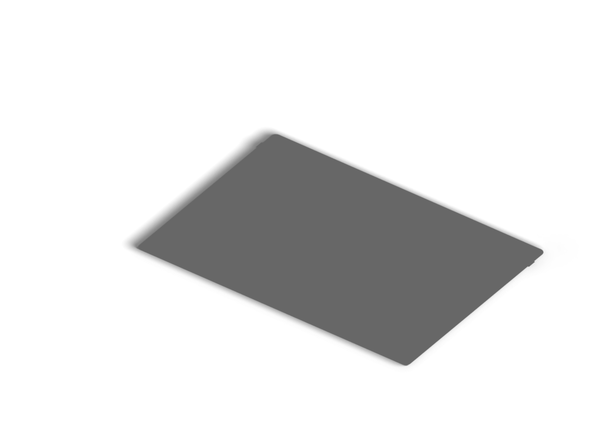
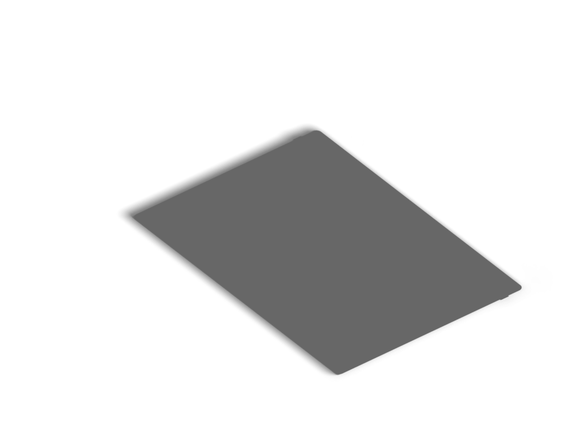
Compose the desk as a grid-based object system
Positions are now derived from rules on a shared axonometric grid: the
monitor sets the system's width and back baseline; the Mac mini, cube and
notebook form a front row justified to that width with equal gaps on one
axis; the plant stands on the back baseline one gap outside the screen.
The notebook is re-rendered square to the grid. ?grid shows the
construction lines.

Claude-Session: https://claude.ai/code/session_01CUiEZuVTLd7MTFBb59jba6

Changed region(s): [[0.1837, 0.2702, 0.8878, 0.8707]]

diff --git a/desk/js/layouts.js b/desk/js/layouts.js
@@ -1,120 +1,106 @@
-// Art-directed desk compositions.
+// The desk as a designed object system.
 //
-// Scene coordinates are real centimetres on the desk plane, in the same frame
-// as the Blender renders (style v1.3, the mirrored front-left camera): +x runs
-// to the right on screen and toward the viewer, +y away from the viewer.
-// scene.js projects them with the renders' orthographic camera, so every
-// arrangement is one physical desk seen through one lens.
+// Objects are not hand-placed. Their positions are derived from a few rules on
+// a shared axonometric grid, in real centimetres on the desk plane (the same
+// frame as the Blender renders, style v1.3: +x runs up-right on screen, +y
+// up-left, away from the viewer). Every object is square to the grid.
 //
-// The monitor sits at the origin in every variation (its foot spans roughly
-// x −10…10, y 7…23; the screen stands at y≈10, x −31…31, bottom edge 10.5 cm
-// up). Everything else is placed in relation to it.
+//   1. The monitor anchors the back row. Its screen width is the width of the
+//      whole system, and its screen plane is the back baseline.
+//   2. A front row (Mac mini · cube · notebook) is justified across exactly the
+//      monitor's width, with equal gaps between items, all centred on one
+//      shared axis parallel to the screen.
+//   3. That axis sits so the deepest item clears the monitor's foot by half a
+//      gap.
+//   4. The plant stands on the back baseline, one gap outside the screen's
+//      edge: the single, deliberate asymmetry, balancing the row's weight.
 //
-// Each variation has a desk tone and two crops: `landscape` and `portrait`.
-// `stage` is the screen region (fractions of the viewport) the `frame`
-// objects are fitted into; `align`/`alignX` bias where spare room goes;
-// objects outside `frame` may run off the window like a crop of the desk.
+// Footprints are the objects' real plan dimensions (cm), measured from the
+// Blender models; `optical` scale is applied to the footprint too, so the
+// spacing is honest to what you see.
 
-const MONITOR = { x: 0, y: 10 };
-
-export const VARIANTS = {
-  // A — Workstation. The Mac mini sits square beside the stand, the notebook
-  // and cube gather front-right as one small group, and the plant stands
-  // just behind the screen's right edge.
-  a: {
-    name: "Workstation",
-    tone: { base: "#e7e2d8", lit: "#ebe7de" },
-    objects: {
-      monitor: MONITOR,
-      macmini: { x: -18, y: 7 },
-      notebook: { x: 16, y: -12 },
-      rubiks: { x: 4, y: -17 },
-      plant: { x: 47, y: 21 },
-    },
-    landscape: { stage: { left: 0.18, right: 0.84, top: 0.14, bottom: 0.9, align: 0.5 }, maxScale: 11.5 },
-    portrait: {
-      // Frame the front group within the screen; the monitor rises behind it
-      // and may run off an edge, the plant may crop.
-      stage: { left: 0.05, right: 0.95, top: 0.44, bottom: 0.84, align: 0.5 },
-      frame: ["macmini", "rubiks", "notebook"],
-      maxScale: 11,
-      optical: { rubiks: 1.35 },
-    },
-  },
-
-  // B — Corner. The Mac mini tucks under the screen's right corner, the
-  // notebook and cube sit front-left, and the plant balances from the far
-  // left, set back.
-  b: {
-    name: "Corner",
-    tone: { base: "#e9e5dd", lit: "#eeebe4" },
-    objects: {
-      monitor: MONITOR,
-      macmini: { x: 19, y: 3 },
-      notebook: { x: -19, y: -13 },
-      rubiks: { x: -6, y: -19 },
-      plant: { x: -42, y: 9 },
-    },
-    landscape: { stage: { left: 0.16, right: 0.86, top: 0.14, bottom: 0.9, align: 0.5 }, maxScale: 11.5 },
-    portrait: {
-      // Frame the front group within the screen; the monitor rises behind it
-      // and may run off an edge, the plant may crop.
-      stage: { left: 0.05, right: 0.95, top: 0.44, bottom: 0.84, align: 0.5 },
-      frame: ["macmini", "rubiks", "notebook"],
-      maxScale: 11,
-      optical: { rubiks: 1.35 },
-    },
-  },
-
-  // C — Close still life. Everything pulled in tight: the notebook against
-  // the stand's front corner, the cube between it and the Mac mini, and the
-  // plant partly hidden behind the screen, so the desk reads as one
-  // overlapping silhouette.
-  c: {
-    name: "Close",
-    tone: { base: "#e3ded4", lit: "#e8e4db" },
-    objects: {
-      monitor: { x: 0, y: 12 },
-      macmini: { x: -16, y: 3 },
-      notebook: { x: 13, y: -7 },
-      rubiks: { x: -2, y: -12 },
-      plant: { x: 45, y: 25 },
-    },
-    landscape: { stage: { left: 0.22, right: 0.8, top: 0.14, bottom: 0.9, align: 0.5 }, maxScale: 12.5 },
-    portrait: {
-      // Frame the front group within the screen; the monitor rises behind it
-      // and may run off an edge, the plant may crop.
-      stage: { left: 0.05, right: 0.95, top: 0.44, bottom: 0.84, align: 0.5 },
-      frame: ["macmini", "rubiks", "notebook"],
-      maxScale: 11,
-      optical: { rubiks: 1.3 },
-    },
-  },
+const FOOTPRINT = {
+  monitor: { w: 61.5, front: -3.5 }, // screen width; foot's front edge (y)
+  macmini: { w: 12.7, d: 12.7 },
+  rubiks: { w: 5.7, d: 5.7 },
+  notebook: { w: 14.8, d: 21.0 },
+  plant: { r: 4.7 }, // pot rim radius
 };
 
-export const DEFAULT_VARIANT = "a";
+const SNAP = 0.5; // cm: everything lands on a half-centimetre grid
+const snap = (v) => Math.round(v / SNAP) * SNAP;
 
-/** The variation named by ?v= in the URL, else the default. */
-export function currentVariant() {
-  const v = new URLSearchParams(location.search).get("v");
-  return VARIANTS[v] ? v : DEFAULT_VARIANT;
+/** Derive every object's position from the rules above. */
+export function composeSystem({ cubeScale = 1.15 } = {}) {
+  const M = FOOTPRINT.monitor;
+  const left = -M.w / 2;
+  const right = M.w / 2;
+
+  const row = [
+    { id: "macmini", w: FOOTPRINT.macmini.w, d: FOOTPRINT.macmini.d },
+    { id: "rubiks", w: FOOTPRINT.rubiks.w * cubeScale, d: FOOTPRINT.rubiks.d * cubeScale },
+    { id: "notebook", w: FOOTPRINT.notebook.w, d: FOOTPRINT.notebook.d },
+  ];
+  const gap = (M.w - row.reduce((sum, r) => sum + r.w, 0)) / (row.length - 1);
+
+  // Row axis: the deepest item clears the monitor's foot by half a gap.
+  const deepest = Math.max(...row.map((r) => r.d));
+  const axis = M.front - gap / 2 - deepest / 2;
+
+  const objects = { monitor: { x: 0, y: 0 } };
+  let x = left;
+  for (const r of row) {
+    objects[r.id] = { x: snap(x + r.w / 2), y: snap(axis) };
+    x += r.w + gap;
+  }
+  objects.plant = { x: snap(right + gap + FOOTPRINT.plant.r), y: 0 };
+
+  // Construction lines, for the optional ?grid overlay.
+  const guides = {
+    xs: [
+      left,
+      right,
+      ...row.flatMap((r) => [objects[r.id].x - r.w / 2, objects[r.id].x + r.w / 2]),
+      objects.plant.x - FOOTPRINT.plant.r,
+      objects.plant.x + FOOTPRINT.plant.r,
+    ],
+    ys: [axis - deepest / 2, axis, axis + deepest / 2, M.front, 0],
+    extent: { x0: left - 6, x1: objects.plant.x + FOOTPRINT.plant.r + 6, y0: axis - deepest / 2 - 6, y1: 26 },
+  };
+  return { objects, gap, guides, optical: { rubiks: cubeScale } };
 }
+
+const SYSTEM = composeSystem();
+
+export const LAYOUT = {
+  tone: { base: "#e7e2d8", lit: "#ebe7de" },
+  landscape: {
+    stage: { left: 0.16, right: 0.84, top: 0.15, bottom: 0.89, align: 0.5 },
+    maxScale: 11.5,
+  },
+  portrait: {
+    // A closer crop of the same system: frame the front row and the plant,
+    // and let the monitor run off the left edge.
+    stage: { left: 0.06, right: 0.94, top: 0.16, bottom: 0.9, align: 0.5 },
+    frame: ["macmini", "rubiks", "notebook", "plant"],
+    maxScale: 11,
+  },
+};
 
 /** Choose a crop by aspect ratio, not device type. */
 export function pickLayout(width, height) {
   return width / height < 0.9 ? "portrait" : "landscape";
 }
 
-/** Resolve one variation + crop into the layout scene.js lays out. */
-export function resolveLayout(variantId, orientation) {
-  const V = VARIANTS[variantId];
-  const crop = V[orientation];
+/** The layout scene.js lays out for one crop. */
+export function resolveLayout(orientation) {
+  const crop = LAYOUT[orientation];
   const objects = {};
-  for (const [id, pos] of Object.entries(V.objects)) {
-    objects[id] = { ...pos, optical: crop.optical?.[id] };
+  for (const [id, pos] of Object.entries(SYSTEM.objects)) {
+    objects[id] = { ...pos, optical: SYSTEM.optical[id] };
   }
-  // The faint pool of light sits under the main group, in front of the screen.
-  const m = V.objects.monitor;
-  const light = { x: m.x + 2, y: m.y - 14, radius: orientation === "portrait" ? 62 : 80 };
-  return { ...crop, objects, desk: { light } };
+  // A faint pool of light under the front row ties the system to one plane.
+  const light = { x: 0, y: SYSTEM.guides.ys[1], radius: orientation === "portrait" ? 60 : 78 };
+  const showGrid = new URLSearchParams(location.search).has("grid");
+  return { ...crop, objects, desk: { light, guides: showGrid ? SYSTEM.guides : null } };
 }

diff --git a/desk/assets/manifest.js b/desk/assets/manifest.js
@@ -1,2 +1,2 @@
 // Generated by illustrated-desk/tools/export_web.py — do not edit.
-export default {"style":"1.3","camera":{"elevation":37.0,"azimuth":-38.0},"densities":[16.0,32.0],"objects":{"monitor":{"size":[73.031,74.312],"anchor":[40.455,61.438],"hull":[[15.844,36.391],[15.884,36.128],[16.109,35.709],[16.281,35.541],[16.512,35.4],[63.553,13.281],[63.763,13.216],[64.016,13.228],[64.231,13.341],[64.872,13.834],[65.016,14.037],[65.106,14.416],[65.106,41.375],[64.987,41.803],[64.85,42.006],[49.7,59.538],[49.509,59.716],[49.116,59.956],[36.038,66.106],[35.806,66.203],[35.288,66.334],[35.013,66.369],[34.453,66.372],[16.991,64.463],[16.678,64.334],[16.041,63.841],[15.938,63.719],[15.844,63.381]],"layers":{"object":{"16":"monitor-object@16.webp","32":"monitor-object@32.webp"},"shadow":{"16":"monitor-shadow@16.webp","32":"monitor-shadow@32.webp"}},"states":{"on":{"16":"monitor-state-on@16.webp","32":"monitor-state-on@32.webp"}},"frames":{}},"macmini":{"size":[25.25,21.281],"anchor":[14.14,13.807],"hull":[[6.075,9.575],[6.153,9.191],[6.534,8.709],[6.944,8.459],[13.637,5.312],[14.338,5.1],[14.853,5.056],[15.372,5.094],[16.075,5.297],[16.491,5.541],[21.722,9.572],[22.119,10.05],[22.206,10.434],[22.206,13.725],[22.128,14.109],[21.747,14.594],[21.369,14.825],[14.641,17.988],[14.188,18.15],[13.684,18.234],[13.162,18.238],[12.656,18.156],[12.203,18.003],[11.787,17.759],[6.556,13.728],[6.253,13.406],[6.106,13.088],[6.075,12.866]],"layers":{"object":{"16":"macmini-object@16.webp","32":"macmini-object@32.webp"},"shadow":{"16":"macmini-shadow@16.webp","32":"macmini-shadow@32.webp"}},"states":{"on":{"16":"macmini-state-on@16.webp","32":"macmini-state-on@32.webp"}},"frames":{}},"rubiks":{"size":[14.281,14.906],"anchor":[8.2,10.435],"hull":[[4.244,5.675],[4.25,5.638],[4.269,5.609],[4.3,5.591],[7.144,4.253],[8.641,3.55],[8.666,3.544],[8.697,3.547],[8.731,3.566],[9.903,4.466],[11.072,5.366],[12.122,6.175],[12.147,6.206],[12.156,6.244],[12.156,10.644],[12.147,10.681],[12.128,10.709],[12.097,10.728],[9.256,12.066],[7.756,12.769],[7.734,12.775],[7.7,12.772],[7.669,12.753],[6.497,11.853],[5.328,10.953],[4.278,10.144],[4.247,10.097],[4.244,10.075]],"layers":{"object":{"16":"rubiks-object@16.webp","32":"rubiks-object@32.webp"},"shadow":{"16":"rubiks-shadow@16.webp","32":"rubiks-shadow@32.webp"}},"states":{},"frames":{"twist":{"count":36,"cols":6,"rows":6,"files":{"16":"rubiks-twist@16.webp","32":"rubiks-twist@32.webp"}}}},"notebook":{"size":[38.25,27.062],"anchor":[21.295,15.605],"hull":[[8.528,14.328],[8.544,14.231],[8.656,14.059],[8.694,14.022],[15.978,7.828],[16.325,7.541],[16.991,7.159],[17.113,7.116],[17.253,7.103],[17.456,7.144],[33.809,14.297],[33.869,14.328],[33.947,14.406],[33.981,14.525],[33.981,15.722],[33.959,15.797],[33.897,15.881],[33.422,16.366],[33.075,16.653],[25.669,22.697],[25.544,22.766],[25.416,22.8],[25.266,22.791],[25.137,22.756],[8.797,15.613],[8.722,15.572],[8.562,15.428],[8.528,15.334]],"layers":{"object":{"16":"notebook-object@16.webp","32":"notebook-object@32.webp"},"shadow":{"16":"notebook-shadow@16.webp","32":"notebook-shadow@32.webp"}},"states":{"open":{"16":"notebook-state-open@16.webp","32":"notebook-state-open@32.webp"}},"frames":{}},"plant":{"size":[29.812,29.562],"anchor":[17.668,23.66],"hull":[[7.181,13.906],[7.466,13.194],[8.222,12.116],[10.756,9.2],[11.25,8.806],[15.259,6.434],[16.319,6.119],[17.622,5.95],[18.669,5.978],[19.15,6.119],[22.016,7.516],[22.553,7.828],[25.256,9.703],[25.731,10.162],[26.222,12.319],[26.156,13.072],[21.569,24.103],[21.05,24.875],[20.387,25.359],[19.809,25.628],[18.553,25.95],[16.85,25.959],[15.881,25.753],[15.269,25.522],[14.525,25.081],[13.997,24.541],[7.253,15.0],[7.153,14.784]],"layers":{"object":{"16":"plant-object@16.webp","32":"plant-object@32.webp"},"shadow":{"16":"plant-shadow@16.webp","32":"plant-shadow@32.webp"}},"states":{},"frames":{"sway":{"count":12,"cols":4,"rows":3,"files":{"16":"plant-sway@16.webp","32":"plant-sway@32.webp"}}}}}};
+export default {"style":"1.3","camera":{"elevation":37.0,"azimuth":-38.0},"densities":[16.0,32.0],"objects":{"monitor":{"size":[73.031,74.312],"anchor":[40.455,61.438],"hull":[[15.844,36.391],[15.884,36.128],[16.109,35.709],[16.281,35.541],[16.512,35.4],[63.553,13.281],[63.763,13.216],[64.016,13.228],[64.231,13.341],[64.872,13.834],[65.016,14.037],[65.106,14.416],[65.106,41.375],[64.987,41.803],[64.85,42.006],[49.7,59.538],[49.509,59.716],[49.116,59.956],[36.038,66.106],[35.806,66.203],[35.288,66.334],[35.013,66.369],[34.453,66.372],[16.991,64.463],[16.678,64.334],[16.041,63.841],[15.938,63.719],[15.844,63.381]],"layers":{"object":{"16":"monitor-object@16.webp","32":"monitor-object@32.webp"},"shadow":{"16":"monitor-shadow@16.webp","32":"monitor-shadow@32.webp"}},"states":{"on":{"16":"monitor-state-on@16.webp","32":"monitor-state-on@32.webp"}},"frames":{}},"macmini":{"size":[25.25,21.281],"anchor":[14.14,13.807],"hull":[[6.075,9.575],[6.153,9.191],[6.534,8.709],[6.944,8.459],[13.637,5.312],[14.338,5.1],[14.853,5.056],[15.372,5.094],[16.075,5.297],[16.491,5.541],[21.722,9.572],[22.119,10.05],[22.206,10.434],[22.206,13.725],[22.128,14.109],[21.747,14.594],[21.369,14.825],[14.641,17.988],[14.188,18.15],[13.684,18.234],[13.162,18.238],[12.656,18.156],[12.203,18.003],[11.787,17.759],[6.556,13.728],[6.253,13.406],[6.106,13.088],[6.075,12.866]],"layers":{"object":{"16":"macmini-object@16.webp","32":"macmini-object@32.webp"},"shadow":{"16":"macmini-shadow@16.webp","32":"macmini-shadow@32.webp"}},"states":{"on":{"16":"macmini-state-on@16.webp","32":"macmini-state-on@32.webp"}},"frames":{}},"rubiks":{"size":[14.281,14.906],"anchor":[8.2,10.435],"hull":[[4.244,5.675],[4.25,5.638],[4.269,5.609],[4.3,5.591],[7.144,4.253],[8.641,3.55],[8.666,3.544],[8.697,3.547],[8.731,3.566],[9.903,4.466],[11.072,5.366],[12.122,6.175],[12.147,6.206],[12.156,6.244],[12.156,10.644],[12.147,10.681],[12.128,10.709],[12.097,10.728],[9.256,12.066],[7.756,12.769],[7.734,12.775],[7.7,12.772],[7.669,12.753],[6.497,11.853],[5.328,10.953],[4.278,10.144],[4.247,10.097],[4.244,10.075]],"layers":{"object":{"16":"rubiks-object@16.webp","32":"rubiks-object@32.webp"},"shadow":{"16":"rubiks-shadow@16.webp","32":"rubiks-shadow@32.webp"}},"states":{},"frames":{"twist":{"count":36,"cols":6,"rows":6,"files":{"16":"rubiks-twist@16.webp","32":"rubiks-twist@32.webp"}}}},"notebook":{"size":[36.719,27.5],"anchor":[20.459,15.775],"hull":[[8.241,12.384],[8.253,12.328],[8.297,12.266],[8.428,12.144],[8.5,12.103],[18.288,7.362],[18.753,7.144],[19.594,6.894],[19.728,6.869],[19.938,6.897],[20.066,6.966],[32.5,16.544],[32.569,16.625],[32.591,16.7],[32.591,17.944],[32.534,18.059],[32.487,18.097],[31.762,18.519],[31.3,18.738],[21.403,23.316],[21.259,23.363],[21.113,23.372],[20.981,23.341],[20.853,23.275],[8.416,13.697],[8.375,13.656],[8.259,13.488],[8.241,13.391]],"layers":{"object":{"16":"notebook-object@16.webp","32":"notebook-object@32.webp"},"shadow":{"16":"notebook-shadow@16.webp","32":"notebook-shadow@32.webp"}},"states":{"open":{"16":"notebook-state-open@16.webp","32":"notebook-state-open@32.webp"}},"frames":{}},"plant":{"size":[29.812,29.562],"anchor":[17.668,23.66],"hull":[[7.181,13.906],[7.466,13.194],[8.222,12.116],[10.756,9.2],[11.25,8.806],[15.259,6.434],[16.319,6.119],[17.622,5.95],[18.669,5.978],[19.15,6.119],[22.016,7.516],[22.553,7.828],[25.256,9.703],[25.731,10.162],[26.222,12.319],[26.156,13.072],[21.569,24.103],[21.05,24.875],[20.387,25.359],[19.809,25.628],[18.553,25.95],[16.85,25.959],[15.881,25.753],[15.269,25.522],[14.525,25.081],[13.997,24.541],[7.253,15.0],[7.153,14.784]],"layers":{"object":{"16":"plant-object@16.webp","32":"plant-object@32.webp"},"shadow":{"16":"plant-shadow@16.webp","32":"plant-shadow@32.webp"}},"states":{},"frames":{"sway":{"count":12,"cols":4,"rows":3,"files":{"16":"plant-sway@16.webp","32":"plant-sway@32.webp"}}}}}};

diff --git a/desk/js/scene.js b/desk/js/scene.js
@@ -14,9 +14,8 @@ export class DeskScene {
    * @param {import("./objects.js").DeskObject[]} objects
    * @param {(obj: import("./objects.js").DeskObject, el: HTMLElement) => void} onActivate
    */
-  constructor(root, manifest, objects, onActivate, variant) {
+  constructor(root, manifest, objects, onActivate) {
     this.root = root;
-    this.variant = variant;
     this.manifest = manifest;
     this.objects = objects;
     this.onActivate = onActivate;
@@ -120,7 +119,7 @@ export class DeskScene {
     const H = box.height;
     if (!W || !H) return;
     const orientation = pickLayout(W, H);
-    const L = resolveLayout(this.variant, orientation);
+    const L = resolveLayout(orientation);
     this.root.dataset.layout = orientation;
 
     // Composition bounds (projected cm) from each object's image box.
@@ -206,7 +205,22 @@ export class DeskScene {
           <stop offset="1" class="desk-base"/>
         </radialGradient>
       </defs>
-      <rect width="${W}" height="${H}" fill="url(#desk-light)"/>`;
+      <rect width="${W}" height="${H}" fill="url(#desk-light)"/>
+      ${desk.guides ? this.#guides(desk.guides, ox, oy, scale) : ""}`;
+  }
+
+  /** Construction lines of the layout system, drawn on the desk plane (?grid). */
+  #guides(g, ox, oy, scale) {
+    const P = (x, y) => {
+      const [px, py] = this.project(x, y);
+      return `${(ox + px * scale).toFixed(1)},${(oy + py * scale).toFixed(1)}`;
+    };
+    const { x0, x1, y0, y1 } = g.extent;
+    const lines = [
+      ...g.xs.map((x) => `<polyline points="${P(x, y0)} ${P(x, y1)}"/>`),
+      ...g.ys.map((y) => `<polyline points="${P(x0, y)} ${P(x1, y)}"/>`),
+    ];
+    return `<g class="guides">${lines.join("")}</g>`;
   }
 
   // -- frame sequences --------------------------------------------------------

diff --git a/desk/js/main.js b/desk/js/main.js
@@ -2,19 +2,16 @@
 // reveals everything together once the images are ready.
 
 import manifest from "../assets/manifest.js";
-import { VARIANTS, currentVariant } from "./layouts.js";
+import { LAYOUT } from "./layouts.js";
 import { OBJECTS } from "./objects.js";
 import { DeskScene } from "./scene.js";
 
 const root = document.querySelector(".scene");
 
-// Desk tone comes from the chosen variation (?v=a|b|c).
-const variant = currentVariant();
-const tone = VARIANTS[variant].tone;
+const tone = LAYOUT.tone;
 document.documentElement.style.setProperty("--desk-top", tone.base);
 document.documentElement.style.setProperty("--desk-lit", tone.lit);
 document.querySelector('meta[name="theme-color"]')?.setAttribute("content", tone.base);
-document.documentElement.dataset.variant = variant;
 
 function activate(obj, hit) {
   const ix = obj.interaction;
@@ -27,7 +24,7 @@ function activate(obj, hit) {
   }
 }
 
-const scene = new DeskScene(root, manifest, OBJECTS, activate, variant);
+const scene = new DeskScene(root, manifest, OBJECTS, activate);
 
 // Coordinated reveal: lay out, wait for every resting image to decode (or
 // fail), then fade the objects in together over the already-drawn desk.

diff --git a/desk/desk.css b/desk/desk.css
@@ -227,3 +227,12 @@ body {
     transform: none;
   }
 }
+
+/* ?grid — the layout system's construction lines, for review only. */
+.guides polyline {
+  fill: none;
+  stroke: #b0563a;
+  stroke-width: 1;
+  stroke-dasharray: 3 4;
+  opacity: 0.55;
+}

diff --git a/desk/js/objects.js b/desk/js/objects.js
@@ -35,7 +35,7 @@ export const OBJECTS = [
   {
     id: "rubiks",
     name: "Rubik's cube",
-    optical: 1.3,
+    optical: 1.15,
     interaction: { kind: "frames", frames: "twist", step: 9, label: "Twist the Rubik’s cube" },
   },
   {
